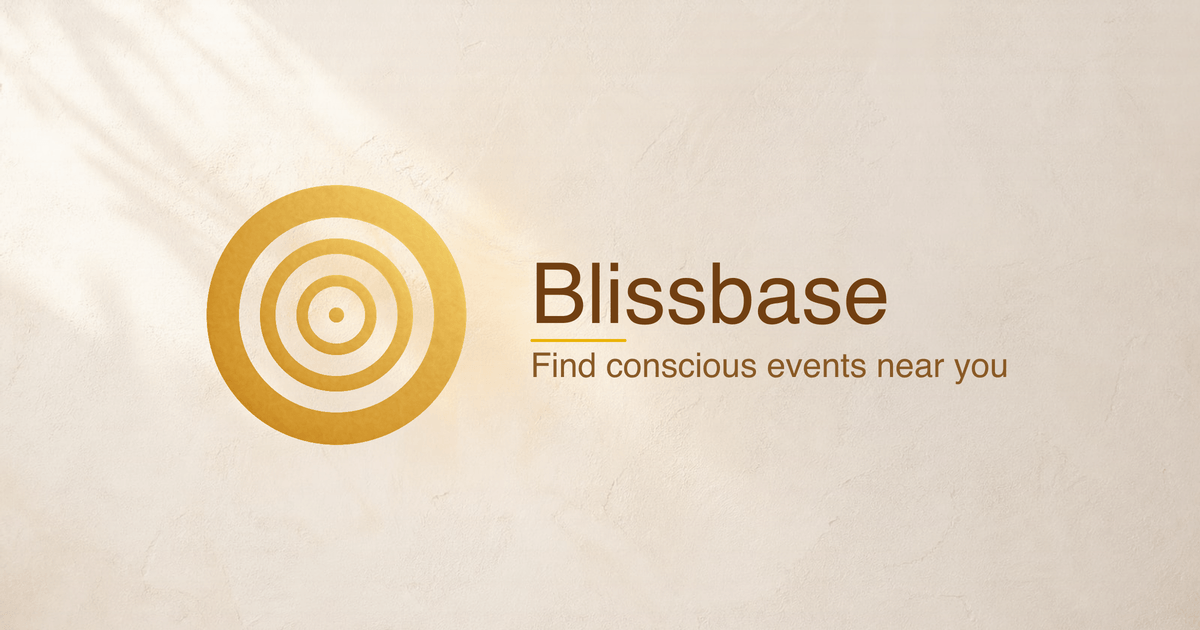
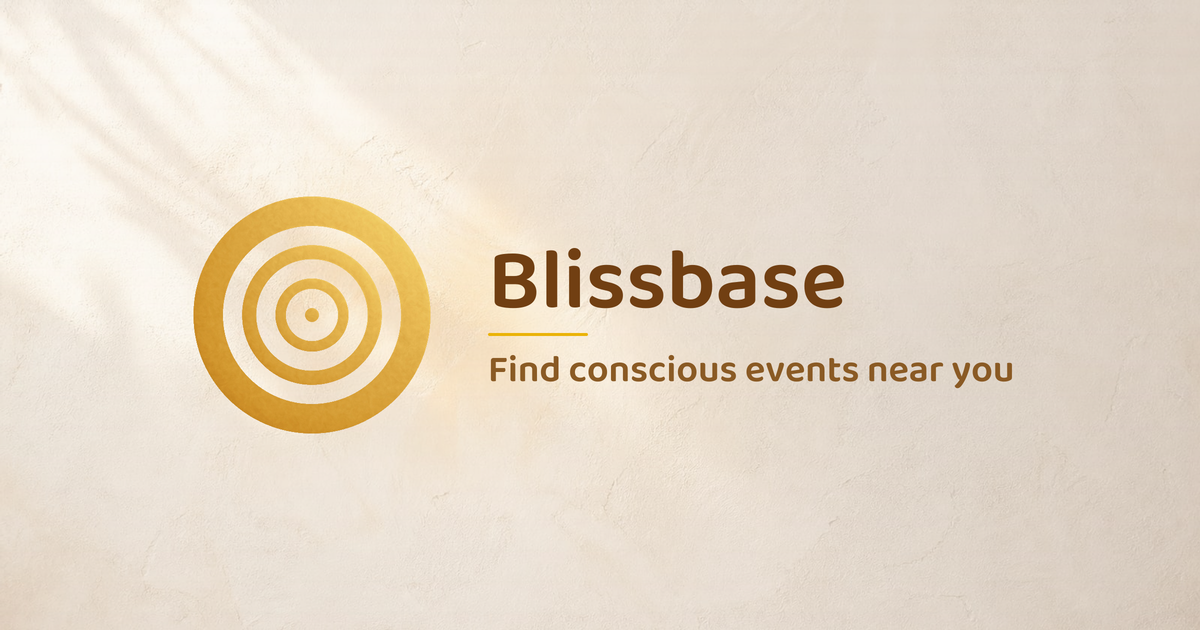
new og image

Changed region(s): [[0.1542, 0.2714, 0.8633, 0.7238]]

diff --git a/scripts/generate-og-poster.ts b/scripts/generate-og-poster.ts
@@ -17,7 +17,6 @@ const fontFile = readFileSync(fontPath)
 const brandFont = opentype.parse(
 	fontFile.buffer.slice(fontFile.byteOffset, fontFile.byteOffset + fontFile.byteLength),
 )
-const fontDataUrl = `data:font/truetype;base64,${fontFile.toString(`base64`)}`
 
 const title = `Blissbase`
 const subtitle = `Find conscious events near you`
@@ -34,36 +33,34 @@ async function writeOgPoster() {
 		.png()
 		.toBuffer()
 
-	const logoSize = px(276)
+	const logoSize = px(252)
 	const logo = await prepareLogo(logoSize)
 
-	const titleSize = 84 * SCALE
-	const subtitleSize = 34 * SCALE
-	const titleWidth = brandFont.getAdvanceWidth(title, titleSize)
-	const subtitleWidth = brandFont.getAdvanceWidth(subtitle, subtitleSize)
-	const textBlockWidth = Math.max(titleWidth, subtitleWidth)
-	const textBlockHeight = titleSize + px(54) + subtitleSize
+	const titleSize = 86 * SCALE
+	const subtitleSize = 38 * SCALE
+	const titleGlyphs = await renderBrandText({ text: title, fontSize: titleSize, fill: TEXT })
+	const subtitleGlyphs = await renderBrandText({
+		text: subtitle,
+		fontSize: subtitleSize,
+		fill: TEXT_SOFT,
+	})
+	const textBlockWidth = Math.max(titleGlyphs.advance, subtitleGlyphs.advance)
+	const textBlockHeight = titleSize + px(80) + subtitleSize
 
-	const gap = px(56)
+	const gap = px(50)
 	const groupWidth = logoSize + gap + textBlockWidth
 	const groupX = Math.round((width - groupWidth) / 2)
 	const logoX = groupX
 	const logoY = Math.round((height - logoSize) / 2)
 	const textX = logoX + logoSize + gap
-	const textTop = logoY + Math.round((logoSize - textBlockHeight) / 2) + px(10)
+	const textTop = logoY + Math.round((logoSize - textBlockHeight) / 2) + px(8)
 	const titleBaseline = textTop + titleSize
-	const ruleY = titleBaseline + px(16)
-	const subtitleBaseline = ruleY + px(38)
+	const ruleY = titleBaseline + px(26)
+	const subtitleBaseline = ruleY + px(48)
 
 	const overlay = Buffer.from(`
 		<svg xmlns="http://www.w3.org/2000/svg" width="${width}" height="${height}">
 			<defs>
-				<style>
-					@font-face {
-						font-family: "Baloo2";
-						src: url("${fontDataUrl}") format("truetype");
-					}
-				</style>
 				<linearGradient id="wash" x1="0" y1="0" x2="0" y2="1">
 					<stop offset="0%" stop-color="#faf7f5" stop-opacity="0.45"/>
 					<stop offset="50%" stop-color="#faf7f5" stop-opacity="0.38"/>
@@ -71,9 +68,7 @@ async function writeOgPoster() {
 				</linearGradient>
 			</defs>
 			<rect width="100%" height="100%" fill="url(#wash)"/>
-			<rect x="${textX}" y="${ruleY}" width="${px(96)}" height="${px(3)}" rx="${1.5 * SCALE}" fill="${PRIMARY}"/>
-			<text x="${textX}" y="${titleBaseline}" font-family="Baloo2" font-size="${titleSize}" fill="${TEXT}">${title}</text>
-			<text x="${textX}" y="${subtitleBaseline}" font-family="Baloo2" font-size="${subtitleSize}" fill="${TEXT_SOFT}">${subtitle}</text>
+			<rect x="${textX}" y="${ruleY}" width="${px(100)}" height="${px(3)}" rx="${1.5 * SCALE}" fill="${PRIMARY}"/>
 		</svg>
 	`)
 
@@ -81,6 +76,16 @@ async function writeOgPoster() {
 		.composite([
 			{ input: overlay, blend: `over` },
 			{ input: logo, left: logoX, top: logoY },
+			{
+				input: titleGlyphs.png,
+				left: textX - titleGlyphs.padding,
+				top: Math.round(titleBaseline - titleGlyphs.baseline),
+			},
+			{
+				input: subtitleGlyphs.png,
+				left: textX - subtitleGlyphs.padding,
+				top: Math.round(subtitleBaseline - subtitleGlyphs.baseline),
+			},
 		])
 		.png()
 		.toBuffer()
@@ -130,4 +135,31 @@ async function prepareLogo(size: number) {
 		.composite([{ input: mask, blend: `dest-in` }])
 		.png()
 		.toBuffer()
+}
+
+async function renderBrandText({
+	text,
+	fontSize,
+	fill,
+}: {
+	text: string
+	fontSize: number
+	fill: string
+}) {
+	const padding = Math.ceil(fontSize * 0.08)
+	const unpositioned = brandFont.getPath(text, padding, 0, fontSize)
+	const rawBox = unpositioned.getBoundingBox()
+	const baseline = padding - rawBox.y1
+	const path = brandFont.getPath(text, padding, baseline, fontSize)
+	const box = path.getBoundingBox()
+	const width = Math.ceil(box.x2) + padding
+	const height = Math.ceil(box.y2) + padding
+	const svg = `<svg xmlns="http://www.w3.org/2000/svg" width="${width}" height="${height}">${path.toSVG(3).replace(`<path`, `<path fill="${fill}"`)}</svg>`
+
+	return {
+		png: await sharp(Buffer.from(svg)).png().toBuffer(),
+		padding,
+		baseline,
+		advance: brandFont.getAdvanceWidth(text, fontSize),
+	}
 }
